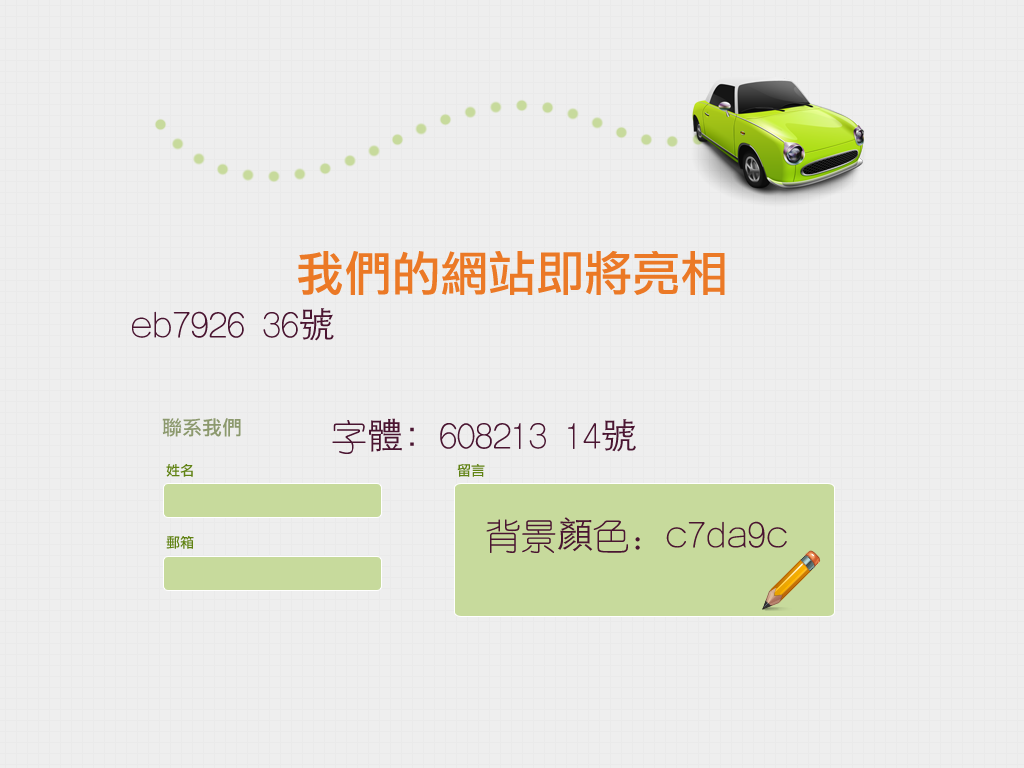
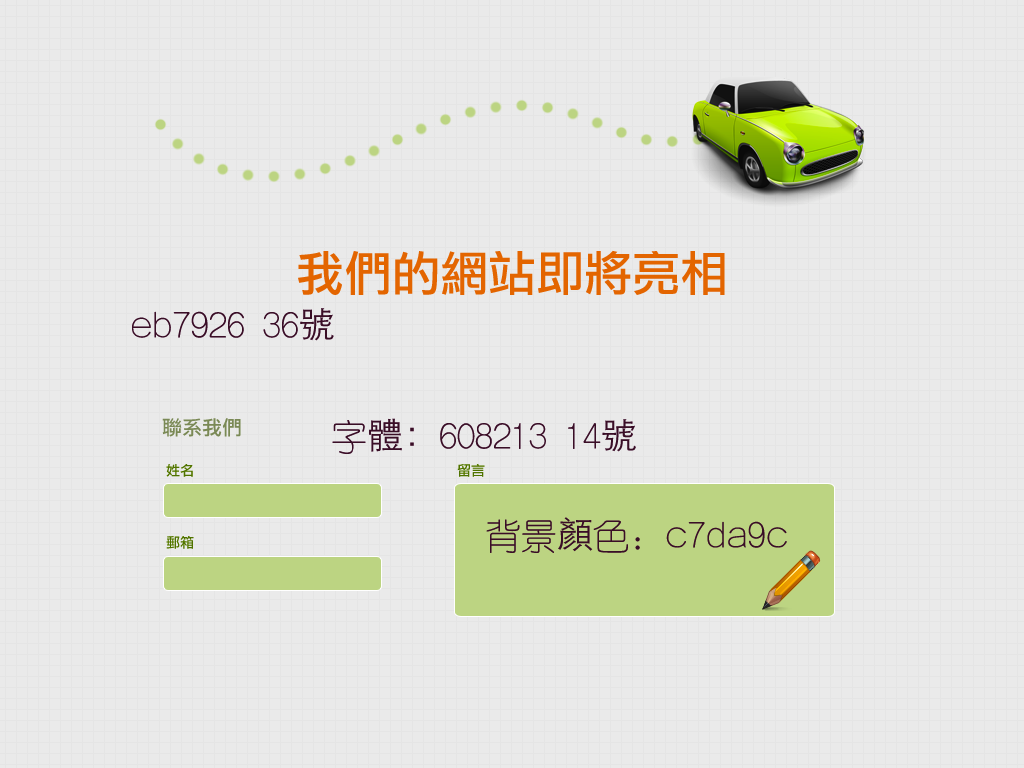
Add css design

diff --git a/public/css/screen.css b/public/css/screen.css
@@ -1,7 +1,3 @@
-/* Welcome to Compass.
- * In this file you should write your main styles. (or centralize your imports)
- * Import this file using the following HTML or equivalent:
- * <link href="/stylesheets/screen.css" media="screen, projection" rel="stylesheet" type="text/css" /> */
 /* line 17, ../../../../.rvm/gems/ruby-1.9.2-p0/gems/compass-0.11.1/frameworks/compass/stylesheets/compass/reset/_utilities.scss */
 html, body, div, span, applet, object, iframe,
 h1, h2, h3, h4, h5, h6, p, blockquote, pre,
@@ -66,4 +62,129 @@ a img {
 article, aside, details, figcaption, figure,
 footer, header, hgroup, menu, nav, section {
   display: block;
+}
+
+/* line 13, ../../scss/screen.scss */
+body {
+  background: url(/images/tile.png) repeat;
+  padding-top: 70px;
+}
+/* line 16, ../../scss/screen.scss */
+body #flash_message {
+  -moz-border-radius: 5px;
+  -webkit-border-radius: 5px;
+  -o-border-radius: 5px;
+  -ms-border-radius: 5px;
+  -khtml-border-radius: 5px;
+  border-radius: 5px;
+  margin: 0 auto;
+  padding: 5px 10px;
+  margin-bottom: 20px;
+  background-color: #c3d795;
+  border: 3px solid #81ae1a;
+  text-align: center;
+}
+/* line 25, ../../scss/screen.scss */
+body #container {
+  width: 750px;
+  margin: 0 auto;
+  overflow: hidden;
+  *zoom: 1;
+  color: #608213;
+}
+/* line 29, ../../scss/screen.scss */
+body #container header#header h1 {
+  margin-top: 40px;
+  color: #eb7926;
+  font-size: 3em;
+  text-align: center;
+  font-weight: bold;
+  margin-bottom: 80px;
+}
+/* line 38, ../../scss/screen.scss */
+body #container h3.contact {
+  color: #81ae1a;
+  font-size: 1.2em;
+  margin-bottom: 24px;
+}
+/* line 44, ../../scss/screen.scss */
+body form#mail-form {
+  overflow: auto;
+}
+/* line 46, ../../scss/screen.scss */
+body form#mail-form label {
+  display: block;
+  font-size: 0.9em;
+  padding-left: 5px;
+  padding-bottom: 5px;
+}
+/* line 52, ../../scss/screen.scss */
+body form#mail-form p.button {
+  padding: 10px 0 20px 535px;
+  float: left;
+}
+/* line 55, ../../scss/screen.scss */
+body form#mail-form p.button input[type=submit] {
+  -moz-border-radius: 5px;
+  -webkit-border-radius: 5px;
+  -o-border-radius: 5px;
+  -ms-border-radius: 5px;
+  -khtml-border-radius: 5px;
+  border-radius: 5px;
+  text-shadow: #aaaaaa 0px 0px 1px;
+  cursor: pointer;
+  width: 120px;
+  line-height: 34px;
+  font-size: 1.2em;
+  font-weight: bold;
+  background-color: #c3d795;
+  color: #608213;
+  border: 1px solid #c3d795;
+  text-transform: uppercase;
+}
+/* line 67, ../../scss/screen.scss */
+body form#mail-form p.button input[type=submit]:hover {
+  color: #fff;
+}
+/* line 72, ../../scss/screen.scss */
+body form#mail-form input[type=text], body form#mail-form textarea {
+  -moz-border-radius: 5px;
+  -webkit-border-radius: 5px;
+  -o-border-radius: 5px;
+  -ms-border-radius: 5px;
+  -khtml-border-radius: 5px;
+  border-radius: 5px;
+  background-color: #c7da9c;
+  color: #5d7e12;
+  border: 1px solid #fff;
+  font-size: 1em;
+}
+/* line 79, ../../scss/screen.scss */
+body form#mail-form textarea#content {
+  margin: 0px;
+  padding: 5px;
+  width: 360px;
+  height: 120px;
+  background: #c7da9c url(/images/pencil_64.png) bottom right no-repeat;
+}
+/* line 86, ../../scss/screen.scss */
+body form#mail-form input[type=text] {
+  width: 206px;
+  height: 22px;
+  padding: 5px;
+}
+/* line 91, ../../scss/screen.scss */
+body form#mail-form .fields {
+  float: left;
+}
+/* line 93, ../../scss/screen.scss */
+body form#mail-form .fields.left {
+  width: 250px;
+  float: left;
+  margin-right: 50px;
+}
+/* line 98, ../../scss/screen.scss */
+body form#mail-form .fields.right {
+  float: left;
+  width: 450px;
 }

diff --git a/scss/screen.scss b/scss/screen.scss
@@ -1,2 +1,104 @@
 @import "compass/reset";
+@import "compass/css3/border-radius";
+@import "compass/css3/text-shadow";
+@import "blueprint/grid";
+$blueprint-container-size: 750px;
+$main-header-color: #eb7926;
+$font-color: #608213;
+$form-bg-color: #c7da9c;
+$dark-font-color: darken($font-color, 1%);
+$light-font-color: lighten($font-color, 10%);
+$button-bg-color: darken($form-bg-color, 2%);
 
+body {
+  background: url(/images/tile.png) repeat;
+  padding-top: 70px;
+  #flash_message {
+    @include border-radius;
+    margin: 0 auto;
+    padding: 5px 10px;
+    margin-bottom: 20px;
+    background-color: $button-bg-color;
+    border: 3px solid $light-font-color;
+    text-align: center;
+  }
+  #container {
+    @include container;
+    color: $font-color;
+    header#header {
+      h1 {
+        margin-top: 40px;
+        color: $main-header-color;
+        font-size: 3em;
+        text-align: center;
+        font-weight: bold;
+        margin-bottom: 80px;
+      }
+    }
+    h3.contact { 
+      color: $light-font-color;
+      font-size: 1.2em;
+      margin-bottom: 24px;
+    }
+  }
+  form#mail-form {
+    overflow: auto;
+    label {
+      display: block;
+      font-size: 0.9em;
+      padding-left: 5px;
+      padding-bottom: 5px;
+    }
+    p.button {
+      padding: 10px 0 20px 535px;
+      float: left;
+      input[type=submit] {
+        @include border-radius;
+        @include text-shadow;
+        cursor: pointer;
+        width: 120px;
+        line-height: 34px;
+        font-size: 1.2em;
+        font-weight: bold;
+        background-color: $button-bg-color;
+        color: $font-color;
+        border: 1px solid $button-bg-color;
+        text-transform: uppercase;
+        &:hover {
+          color: #fff;
+        }
+      }
+    }
+    input[type=text], textarea {
+      @include border-radius;
+      background-color: $form-bg-color;
+      color: $dark-font-color;
+      border: 1px solid #fff;
+      font-size: 1em;
+    }
+    textarea#content {
+      margin: 0px;
+      padding: 5px;
+      width: 360px;
+      height: 120px;
+      background: $form-bg-color url(/images/pencil_64.png) bottom right no-repeat;
+    }
+    input[type=text] {
+      width: 206px;
+      height: 22px;
+      padding: 5px;
+    }
+    .fields {
+      float: left;
+      &.left {
+        width: 250px;
+        float: left;
+        margin-right: 50px;
+      }
+      &.right {
+        float: left;
+        width: $blueprint-container-size - 300px;
+      }
+    }
+  }
+}

diff --git a/ucheke.rb b/ucheke.rb
@@ -6,6 +6,7 @@ require 'mailer'
 
 class Ucheke < Sinatra::Base
   enable :sessions
+  set :root, File.dirname(__FILE__)
 
   helpers do
     def redirect_with_flash(url, message)
